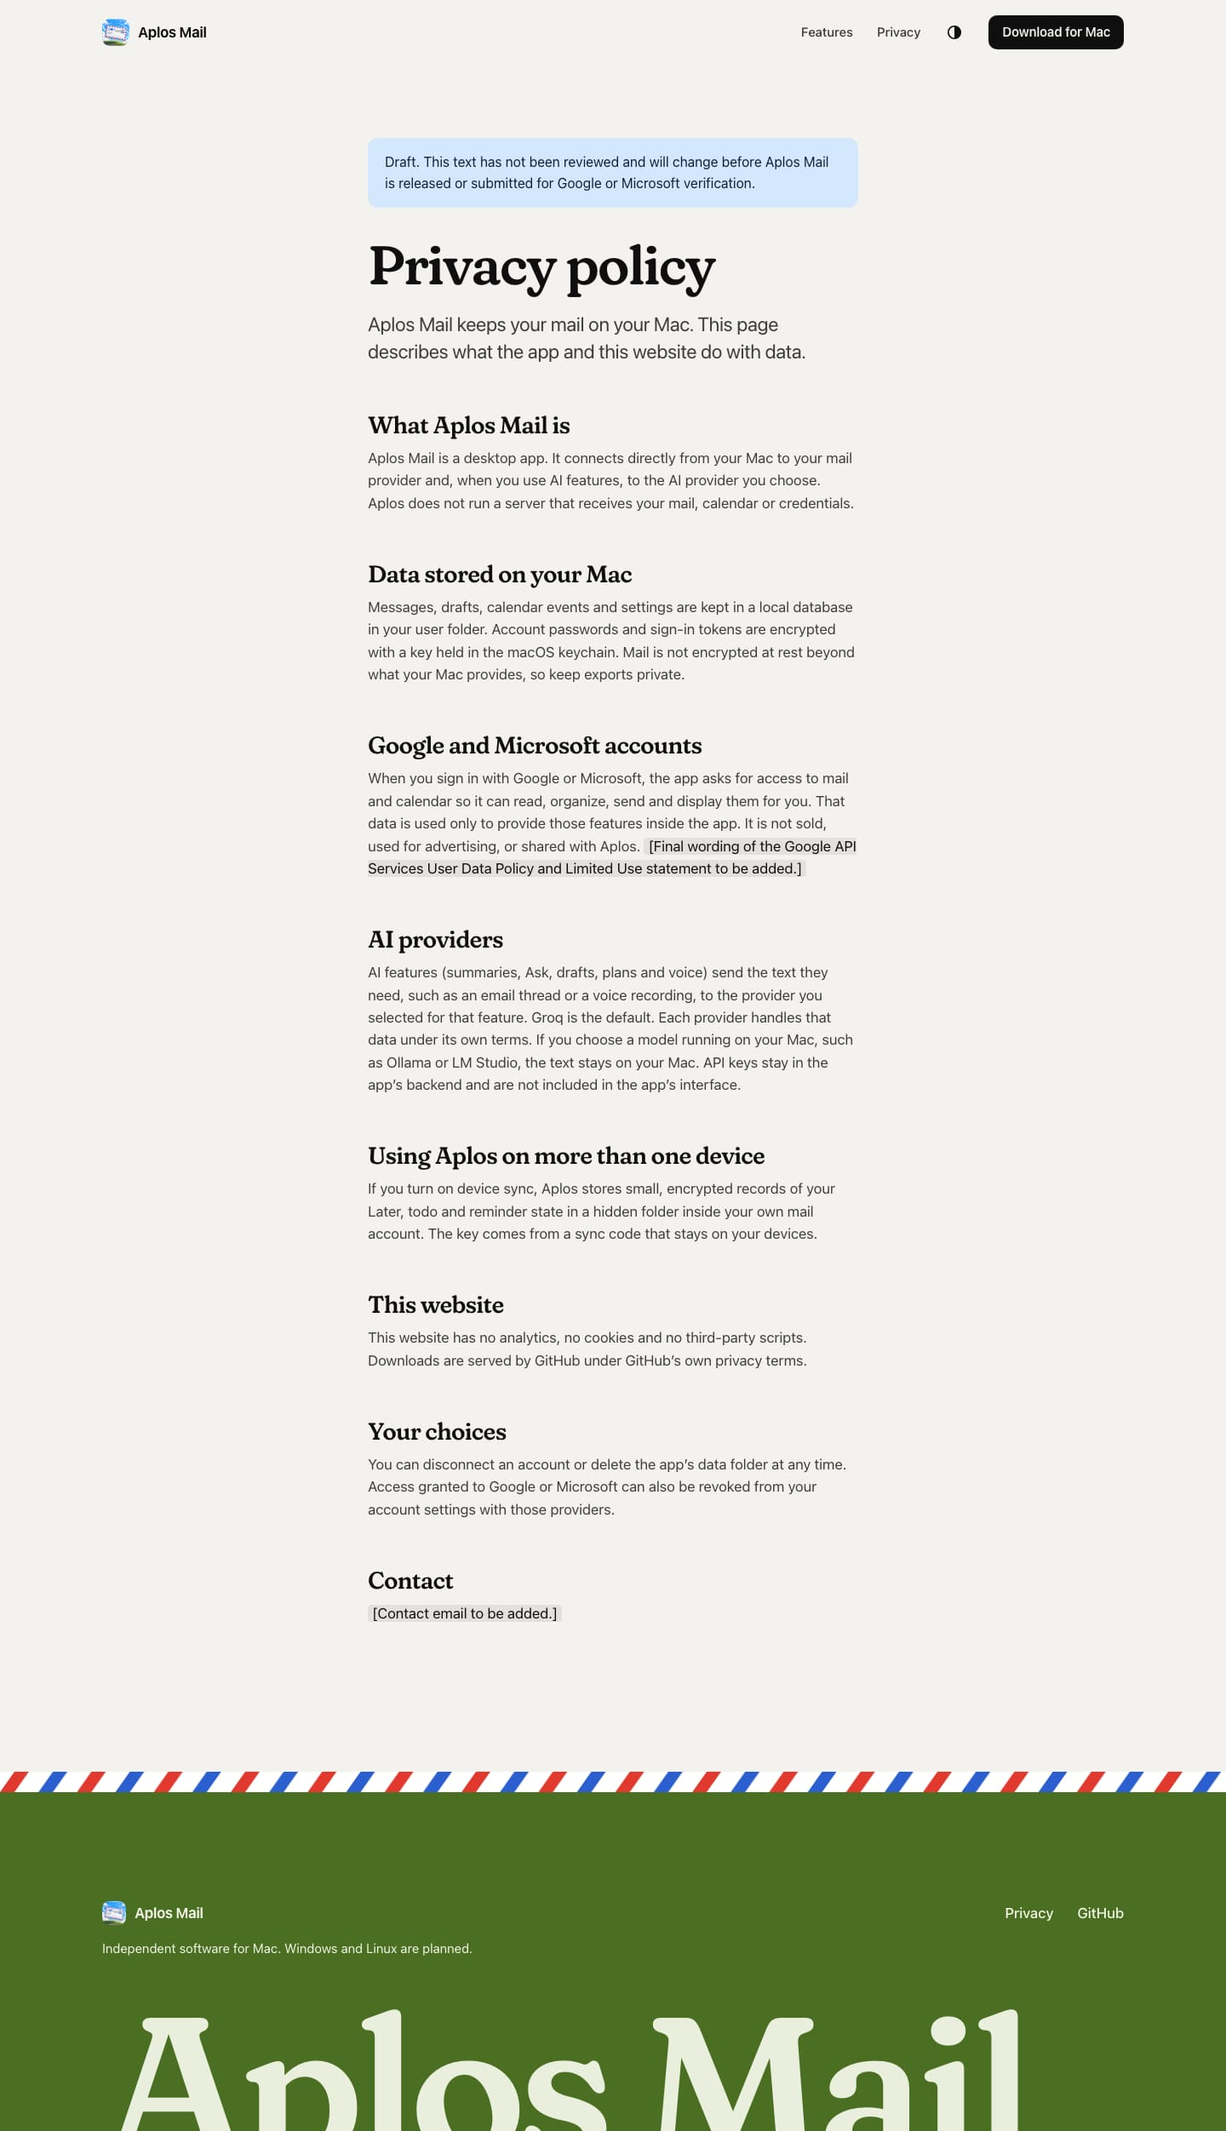
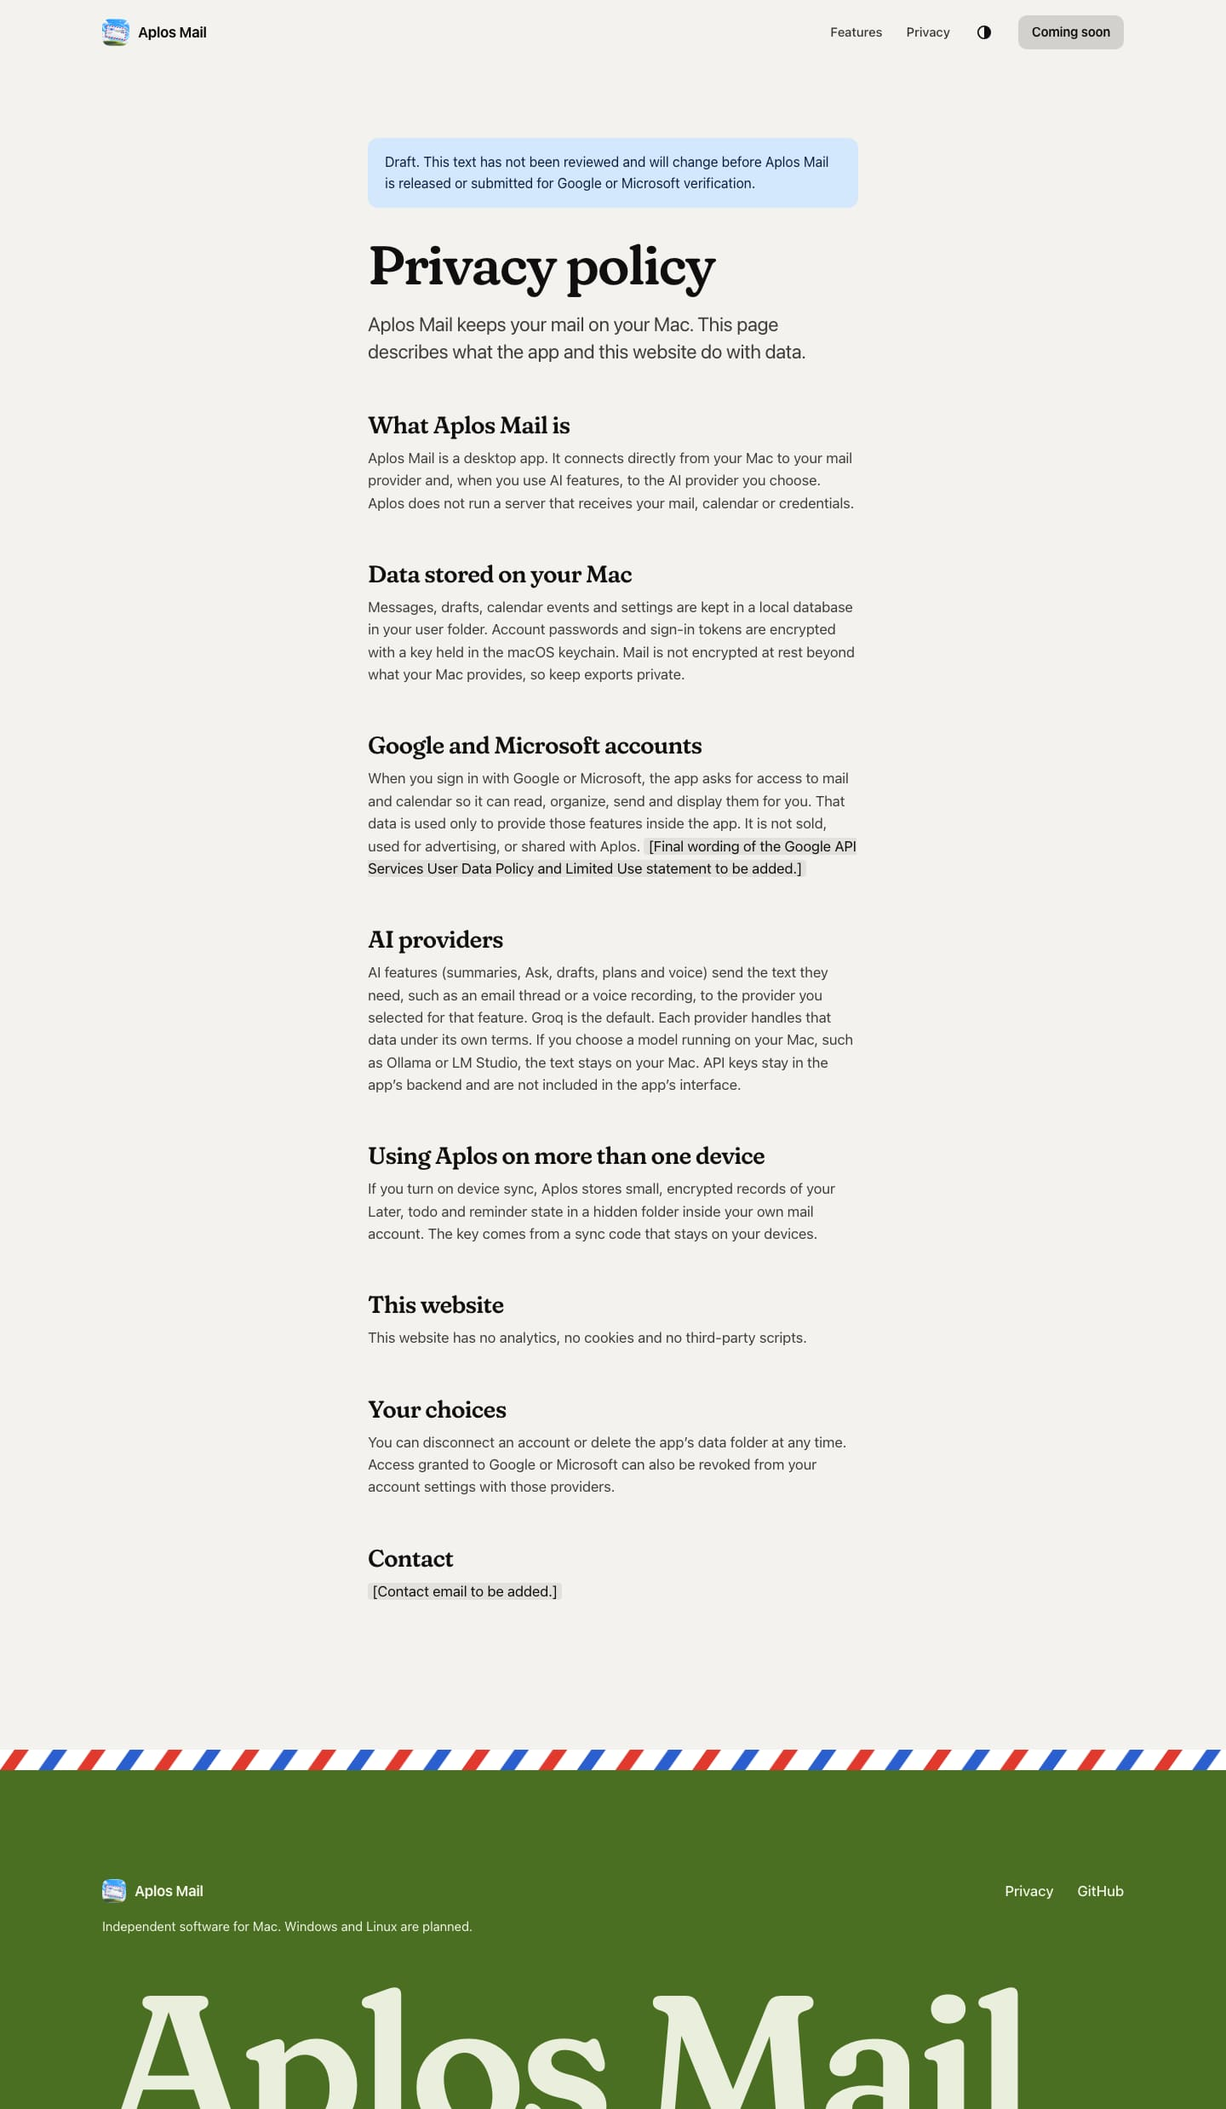
Replace the download buttons with a Coming soon status
There is no release yet, so the nav, hero and close say Coming soon instead of
linking to GitHub releases. Removes the releasesUrl export and the unused button
styles, drops the privacy line about GitHub-served downloads, and fixes the
phone crop of the hero screenshot.

diff --git a/apps/web/src/styles.css b/apps/web/src/styles.css
@@ -80,8 +80,8 @@ p { text-wrap: pretty; }
 .note { font-size: 0.9375rem; color: color-mix(in srgb, currentColor 86%, transparent); }
 .grass .note { color: inherit; }
 
-/* Fields: a whole stretch of the page changes colour. Each sets its own ground, ink and button. */
-.field { background: var(--bg); color: var(--fg); --btn: var(--fg); --btn-ink: var(--bg); }
+/* Fields: a whole stretch of the page changes colour. Each sets its own ground and ink. */
+.field { background: var(--bg); color: var(--fg); }
 .sky { --bg: var(--sky); --fg: var(--sky-ink); }
 .soft { --bg: var(--soft); --fg: var(--soft-ink); }
 .grass { --bg: var(--grass); --fg: var(--grass-ink); }
@@ -104,14 +104,9 @@ p { text-wrap: pretty; }
 .theme:active { transform: scale(0.94); }
 @media (hover: hover) and (pointer: fine) { .theme:hover { background: color-mix(in srgb, currentColor 12%, transparent); } }
 
-.button {
-  display: inline-flex; align-items: center; justify-content: center; height: 52px; padding: 0 28px; border-radius: 14px;
-  background: var(--btn); color: var(--btn-ink); font-size: 1.0625rem; font-weight: 600; letter-spacing: -0.01em; text-decoration: none;
-  transition: transform 160ms var(--ease-out), background-color 160ms ease;
-}
-.button-small { height: 40px; padding: 0 16px; border-radius: 10px; font-size: 0.9375rem; }
-.button:active { transform: scale(0.97); }
-@media (hover: hover) and (pointer: fine) { .button:hover { background: color-mix(in srgb, var(--btn) 84%, var(--bg)); } }
+/* The app is not released yet, so there is no download: a plain status, not a button. */
+.soon { display: inline-flex; align-items: center; height: 52px; padding: 0 24px; border-radius: 14px; background: color-mix(in srgb, var(--fg) 14%, transparent); color: var(--fg); font-size: 1.0625rem; font-weight: 600; letter-spacing: -0.01em; white-space: nowrap; }
+.soon-small { height: 40px; padding: 0 16px; border-radius: 10px; font-size: 0.9375rem; }
 
 kbd { display: inline-block; min-width: 1.7em; padding: 0.05em 0.5em; border-radius: 6px; background: var(--chip); color: inherit; font: 500 0.82em/1.5 var(--font); text-align: center; }
 
@@ -276,7 +271,7 @@ main > section:not(.cal) { margin-top: var(--section); }
 }
 @media (max-width: 560px) {
   /* A whole window is unreadable at phone width, so show the part that matters: the mail list, then the week. */
-  .hero-window .shot { aspect-ratio: 9 / 10; object-position: 72% 0; }
+  .hero-window .shot { aspect-ratio: 9 / 10; object-position: 44% 0; }
   .cal-window .shot { aspect-ratio: 1; object-fit: cover; object-position: 78% 0; }
 }
 @media (max-width: 480px) {

diff --git a/apps/web/src/Landing.tsx b/apps/web/src/Landing.tsx
@@ -2,7 +2,6 @@ import {useEffect,useState} from 'react';
 import {Footer,Header,Shot} from './Chrome';
 import {Triage} from './Triage';
 import {useReveal} from './reveal';
-import {releasesUrl} from './site';
 import heroIcon from './assets/brand/icon-640.webp';
 
 const delay=(ms:number)=>({'--d':`${ms}ms`} as React.CSSProperties);
@@ -54,8 +53,8 @@ export function Landing() {
               comes with a short summary of what it says and what it needs from you.
             </p>
             <div className="cta" data-reveal style={delay(140)}>
-              <a className="button" href={releasesUrl}>Download for Mac</a>
-              <p className="note">Apple silicon. Windows and Linux coming later.</p>
+              <span className="soon">Coming soon to Mac</span>
+              <p className="note">Apple silicon. Windows and Linux later.</p>
             </div>
           </div>
           <div className="hero-icon" data-reveal style={delay(200)}><img src={heroIcon} width="640" height="640" alt="The Aplos Mail app icon: an airmail envelope flying over a green hill." /></div>
@@ -139,8 +138,8 @@ export function Landing() {
         <section className="close wrap">
           <h2 data-reveal>An inbox you can finish.</h2>
           <div className="cta" data-reveal style={delay(100)}>
-            <a className="button" href={releasesUrl}>Download for Mac</a>
-            <p className="note">Requires a Mac with Apple silicon. Windows and Linux coming later.</p>
+            <span className="soon">Coming soon to Mac</span>
+            <p className="note">Requires a Mac with Apple silicon. Windows and Linux later.</p>
           </div>
         </section>
         <Footer home="./" />

diff --git a/apps/web/src/Privacy.tsx b/apps/web/src/Privacy.tsx
@@ -25,7 +25,7 @@ export function Privacy() {
         <p>If you turn on device sync, Aplos stores small, encrypted records of your Later, todo and reminder state in a hidden folder inside your own mail account. The key comes from a sync code that stays on your devices.</p>
 
         <h2>This website</h2>
-        <p>This website has no analytics, no cookies and no third-party scripts. Downloads are served by GitHub under GitHub’s own privacy terms.</p>
+        <p>This website has no analytics, no cookies and no third-party scripts.</p>
 
         <h2>Your choices</h2>
         <p>You can disconnect an account or delete the app’s data folder at any time. Access granted to Google or Microsoft can also be revoked from your account settings with those providers.</p>

diff --git a/apps/web/src/Chrome.tsx b/apps/web/src/Chrome.tsx
@@ -1,6 +1,6 @@
 import {useEffect,useState} from 'react';
 import icon from '../../desktop/assets/icon-64.png';
-import {releasesUrl,repoUrl} from './site';
+import {repoUrl} from './site';
 
 type Theme='light'|'dark';
 const systemTheme=():Theme=>matchMedia('(prefers-color-scheme: dark)').matches?'dark':'light';
@@ -45,7 +45,7 @@ export function Header({home}:{home:string}) {
           <a href={`${home}privacy/`}>Privacy</a>
         </nav>
         <ThemeToggle />
-        <a className="button button-small" href={releasesUrl}>Download for Mac</a>
+        <span className="soon soon-small">Coming soon</span>
       </div>
     </header>
   );

diff --git a/apps/web/src/site.ts b/apps/web/src/site.ts
@@ -1,3 +1,1 @@
-// The download link is the latest GitHub release.
-export const releasesUrl='https://github.com/notkainoa/aplos-mail/releases/latest';
 export const repoUrl='https://github.com/notkainoa/aplos-mail';

diff --git a/DECISIONS.md b/DECISIONS.md
@@ -38,7 +38,7 @@ The owner's `apps/desktop/assets/AppIcon.icon` is the only app icon. The Setting
 - **CI path awareness.** No GitHub Actions workflow exists yet. The website is built by Vercel, which skips deploys through `ignoreCommand` in `apps/web/vercel.json` on the same principle. If desktop jobs are added, filter by path: desktop jobs on `apps/desktop/**` plus root `package.json` / `package-lock.json`; website jobs on `apps/web/**`; both on `packages/**`. Docs-only changes run neither. The desktop package job needs macOS runners; the site build runs anywhere.
 - **Website stack: Vite + React, multi-page.** Two HTML entries (landing, privacy) build to plain static files; no router and no server. It matches the app's toolchain and adds no new framework to learn or maintain. Astro would ship less JavaScript (the pages are static, and React adds about 70 kB gzipped), but it is a second build system for two pages. Revisit if the site grows or load weight matters. No analytics, cookies or third-party scripts; fonts are the system stack, as in the app. Deployment: Vercel's Git integration (decided 2026-10-23 at the owner's request; Cloudflare Pages was set up first and removed the same day). It gives a preview per PR and a production deploy on merge to `main` with no workflow or secrets in the repo; path filtering lives in `apps/web/vercel.json`. Previews are protected by Vercel login; production is public. Analytics and Speed Insights are off.
 - **Website design (revised after owner feedback).** The first pass was clean but plain. The owner asked for the feel of animations.dev, aiforui.dev and Linear's site, and for it to always be dark. Reviewed all three: a near-black ground, big tightly tracked headlines, a framed product window that fades into the page, content that is itself interactive (animations.dev's demo cards), and a restrained tile layout for secondary features. So: dark only (no `prefers-color-scheme` switching, no light screenshots), a soft glow in the icon's green behind the hero window, a sticky translucent bar (the app's own toolbar material), a **working keyboard demo of Home** (`Triage.tsx`: Space, ←, →, Z on the app's original sample mail, with undo and a finished state; keys act only while the demo is focused so the page never hijacks Space or the arrows), a tile layout with real keycaps, provider and account chips, and scroll-in reveals (transform and opacity only, reduced motion keeps opacity only). The taste skill (`design-taste-frontend`, installed at `~/.claude/skills/taste-skill/SKILL.md`; the upstream path only provides that file, so its scripts were not used) was read and its rules were applied by hand in the first pass. This revision deliberately relaxes its bans on gradients, glows, glass and tile grids at the owner's request; it still keeps one `h1`, short headlines, no eyebrows, numbering, monospace or emoji, one typeface (the system font, as in the app) and one accent. Owner rules unchanged: never a sparkle/wand icon, no reference-app branding, the app's own icon and tokens. Emil and Apple guidance shaped the motion: press scale 0.97, ease-out curves, interruptible card exits (each action sends a ghost of the card away while the next one enters, so fast key presses never wait), hover effects gated on real pointers.
-- **Website brand pass (2026-10-23), supersedes "always dark" and the glow/glass look above.** The earlier site called the icon's accent green; the real icon (`AppIcon.icon`) is a blue sky, a white airmail envelope with red and blue stripes, and a green hill, and the app's own accent is blue. The site now follows the icon: the page runs sky (hero, `#3fa3fb`; evening blue `#0b2b57` in dark) → paper (the app's neutrals) → grass (the close), and the envelope's striped border is the seam between them and the "inbox finished" state of the demo. The real icon sits in the nav, the hero, the favicon and the share image (exported from the existing PNGs by `apps/web/scripts/build-brand.mjs`, never redrawn). Light and dark both ship (system theme plus a toggle kept in localStorage; each theme has its own app screenshots). Type: Fraunces with the SOFT axis for headings, self-hosted (about 62 kB for Latin), the system font for everything else as in the app. Removed on purpose: the glow, the blurred sticky bar, tile cards with outlines, icon-less pill chips, gradient and shadowed buttons, the identical centered hero. Kept: the live Home demo (now larger), reveals (transform and opacity, reduced motion keeps opacity only), one `h1`, short headlines, no eyebrows, numbering, monospace or emoji, and the owner rule against sparkle/wand glyphs. The airmail band is a hard-edged SVG pattern in flat colours, not a gradient. The real icon does contain two small stars on its postmark label; that is the icon, not a glyph the site adds. Inspiration (feel only, nothing copied): animations.dev (working demos as the proof, craft-first voice, Open Runde and a serif beside it), orchid.ai (one warm brand object treated as the hero), aiforui.dev (plain confident copy beside real components), akeru-bot (practical, no hype), mastra.ai and email-sdk.dev (terse, spacious, little ornament), gradients.sh (print texture, slow motion; its gradients were not used). The fetch tool returned page text without CSS, so type and palette were read from each site's font files and stylesheets with curl, not from rendered pages.
+- **Website brand pass (2026-10-23), supersedes "always dark" and the glow/glass look above.** The earlier site called the icon's accent green; the real icon (`AppIcon.icon`) is a blue sky, a white airmail envelope with red and blue stripes, and a green hill, and the app's own accent is blue. The site now follows the icon: the page runs sky (hero, `#3fa3fb`; evening blue `#0b2b57` in dark) → paper (the app's neutrals) → grass (the close), and the envelope's striped border is the seam between them and the "inbox finished" state of the demo. The real icon sits in the nav, the hero, the favicon and the share image (exported from the existing PNGs by `apps/web/scripts/build-brand.mjs`, never redrawn). Light and dark both ship (system theme plus a toggle kept in localStorage; each theme has its own app screenshots). Type: Fraunces with the SOFT axis for headings, self-hosted (about 62 kB for Latin), the system font for everything else as in the app. Removed on purpose: the glow, the blurred sticky bar, tile cards with outlines, icon-less pill chips, gradient and shadowed buttons, the identical centered hero. Kept: the live Home demo (now larger), reveals (transform and opacity, reduced motion keeps opacity only), one `h1`, short headlines, no eyebrows, numbering, monospace or emoji, and the owner rule against sparkle/wand glyphs. The airmail band is a hard-edged SVG pattern in flat colours, not a gradient. At the owner's request all download buttons and the `releasesUrl` link were removed and replaced by a plain "Coming soon" status until a release exists; the privacy page no longer mentions GitHub-served downloads. The real icon does contain two small stars on its postmark label; that is the icon, not a glyph the site adds. Inspiration (feel only, nothing copied): animations.dev (working demos as the proof, craft-first voice, Open Runde and a serif beside it), orchid.ai (one warm brand object treated as the hero), aiforui.dev (plain confident copy beside real components), akeru-bot (practical, no hype), mastra.ai and email-sdk.dev (terse, spacious, little ornament), gradients.sh (print texture, slow motion; its gradients were not used). The fetch tool returned page text without CSS, so type and palette were read from each site's font files and stylesheets with curl, not from rendered pages.
 - **Screenshots are real.** The app on its original demo data, captured headlessly from its dev server on separate ports with throwaway storage (`apps/web/scripts/capture-screenshots.mjs`). Without an AI key, summaries in the reader and Ask answers are not available, so the site shows the Home focus card (whose one-line summary comes from the demo data), the week calendar and the docked Ask panel with its suggestions, not an answer. No reference-app branding, assets or copy.
 - **Copy claims to verify before launch.** The feature list follows the brief and README, but Outlook, iCloud, Fastmail and IMAP have only been verified against fake servers (see PROGRESS/TODO), and Fastmail has no calendar yet. The download button and repository link are placeholders (`apps/web/src/site.ts`). The privacy page is a marked draft with bracketed to-dos (Limited Use wording, contact email) and `noindex`.
 

diff --git a/apps/web/README.md b/apps/web/README.md
@@ -10,7 +10,7 @@ npm run web:preview   # serve the built output
 
 - Styling lives in `src/styles.css`. The page is the app icon laid out top to bottom: sky (hero), a paper middle, grass (the close), with the airmail border of the envelope as the seam. Neutrals, the blue accent and the surfaces inside the demo are the app's own tokens (`apps/desktop/src/renderer/ui/tokens.css`); sky, grass, airmail red and blue are sampled from the icon. Headings use Fraunces (SOFT axis, self-hosted through `@fontsource-variable/fraunces`); everything else is the system font, as in the app. Fields (`.sky`, `.soft`, `.grass`, `.paper`) set their own ground, ink and button colour; `src/Triage.tsx` is the interactive Home demo (click it, then Space, ← →, Z) and the keycaps in "Keyboard on every control" press with the real keys.
 - The icon is never redrawn. `scripts/build-brand.mjs` exports the hero icon (`src/assets/brand/icon-640.webp`), the favicon, the Apple touch icon and the share image (`public/og.png`) from `apps/desktop/assets/icon.png` and `icon-256.png`; run it again after the icon changes (the header and footer use `icon-64.png` directly). The favicon and share image links point at `https://aplos.email`.
-- The share image, favicon and "download" link live outside the copy: the download button is `releasesUrl` in `src/site.ts` (the latest GitHub release).
+- There is no download yet: the nav, hero and close say "Coming soon" (`.soon` in `styles.css`). When a release exists, put a link back (the latest GitHub release is `https://github.com/notkainoa/aplos-mail/releases/latest`) and replace the three "Coming soon" spans in `Landing.tsx` and `Chrome.tsx`.
 - The privacy page is a draft with bracketed to-dos. Finish it before Google or Microsoft OAuth verification.
 - `src/assets/shots/*-light.webp` and `*-dark.webp` are real screenshots of the app on its original demo data, one pair per theme. `scripts/capture-screenshots.mjs` recreates them headlessly (instructions are at its top).
 

diff --git a/PROGRESS.md b/PROGRESS.md
@@ -4,6 +4,7 @@
 
 - Restyled `apps/web` to match the app icon and tokens (see DECISIONS, "Website brand pass"): sky, paper and grass fields joined by the airmail band, Fraunces headings, real icon in the nav, hero, favicon and share image, light and dark with matching app screenshots, a bigger live Home demo, keycaps that press with the real keys, a typographic provider list instead of chips, and a closing wordmark at full width. Privacy page uses the same header, fields and footer.
 - Evidence: `npm run typecheck` and `npm run web:build` pass from the repo root. Headless Chromium at 1440, 768 and 390 px in light and dark on both pages: no console errors or failed requests, no horizontal scroll, one `h1`, no heading over two lines, every `[data-reveal]` element revealed, small-text contrast at or above 4.5:1 after fixing the notes on sky and grass, the Triage avatar and its primary button. Interactions tested headlessly: Home demo keys and undo, finished state, caps pressing with the real keys, theme toggle and persistence across reload, reduced motion (icon drift off). Screenshots for review are in `apps/web/docs/`.
+- Follow-up the same day: removed every download button and the `releasesUrl` export; the nav, hero and close now show "Coming soon" until there is a release, and the privacy page's line about downloads is gone.
 - Not done: no Lighthouse run, no real-device or Safari check.
 
 ## 2026-10-23 — Website deployment (Vercel)
